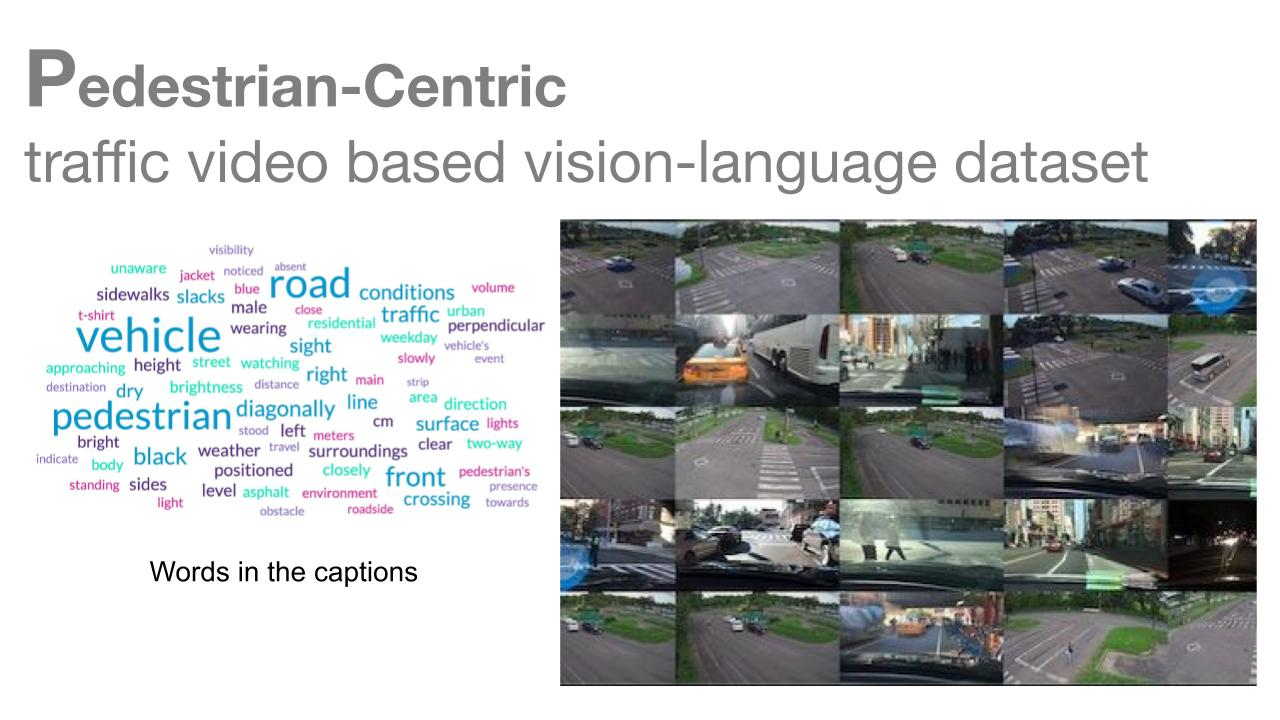
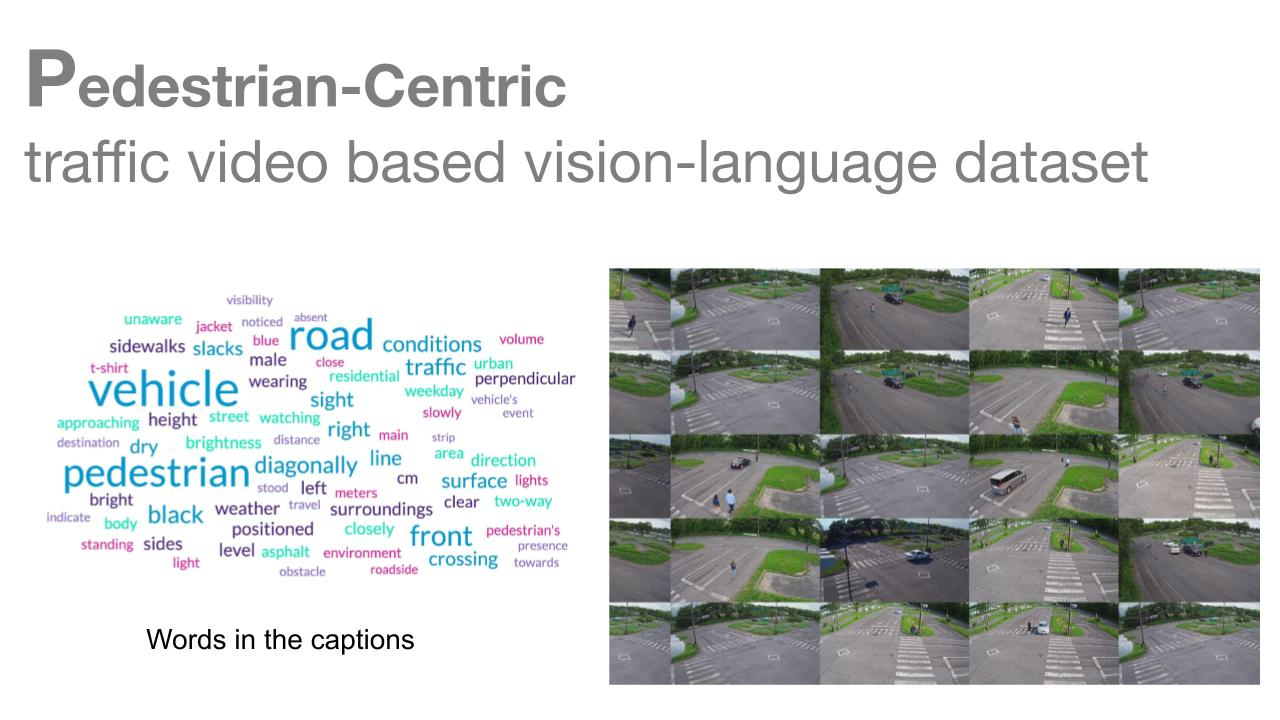
replace images and delete bdd gallery (#1)

diff --git a/index.html b/index.html
@@ -202,47 +202,7 @@
             </div>
           </div>
           <!--row-->
-          <!--row2-->
-          <div class="row">
-            <div class="col-md-12">
-              <div id="portfolio" class="row">
-                <div class="col-sm-6 col-md-3 col-lg-4 col-xl-4 mix design print">
-                  <div class="garelly-item">
-                    <div class="shot-item">
-                        <video autoplay="" muted="" loop="" width="100%">
-                          <source src="video/low/gal_4.mp4" alt="" />
-                        </video>
-                        </br>
-                        <img src="video/low/gal_t4.jpg" height="60%" width="80%" alt="" />
-                    </div>
-                  </div>
-                </div>
-                <div class="col-sm-6 col-md-3 col-lg-4 col-xl-4 mix design print">
-                  <div class="garelly-item">
-                    <div class="shot-item">
-                        <video autoplay="" muted="" loop="" width="100%">
-                          <source src="video/low/gal_5.mp4" alt="" />
-                        </video>
-                        </br>
-                        <img src="video/low/gal_t5.jpg" height="60%" width="80%" alt="" />
-                    </div>
-                  </div>
-                </div>
-                <div class="col-sm-6 col-md-3 col-lg-4 col-xl-4 mix design print">
-                  <div class="garelly-item">
-                    <div class="shot-item">
-                        <video autoplay="" muted="" loop="" width="100%">
-                          <source src="video/low/gal_6.mp4" alt="" />
-                        </video>
-                      </br>
-                      <img src="video/low/gal_t6.jpg" height="60%" width="80%" alt="" />
-                    </div>
-                  </div>
-                </div>
-              </div>
-            </div>
-          </div>
-          <!--row2-->
+
           <!-- Container Ends -->
           <hr class="lines">
           <p class="section-subtitle">Gaze Visulization</p>
